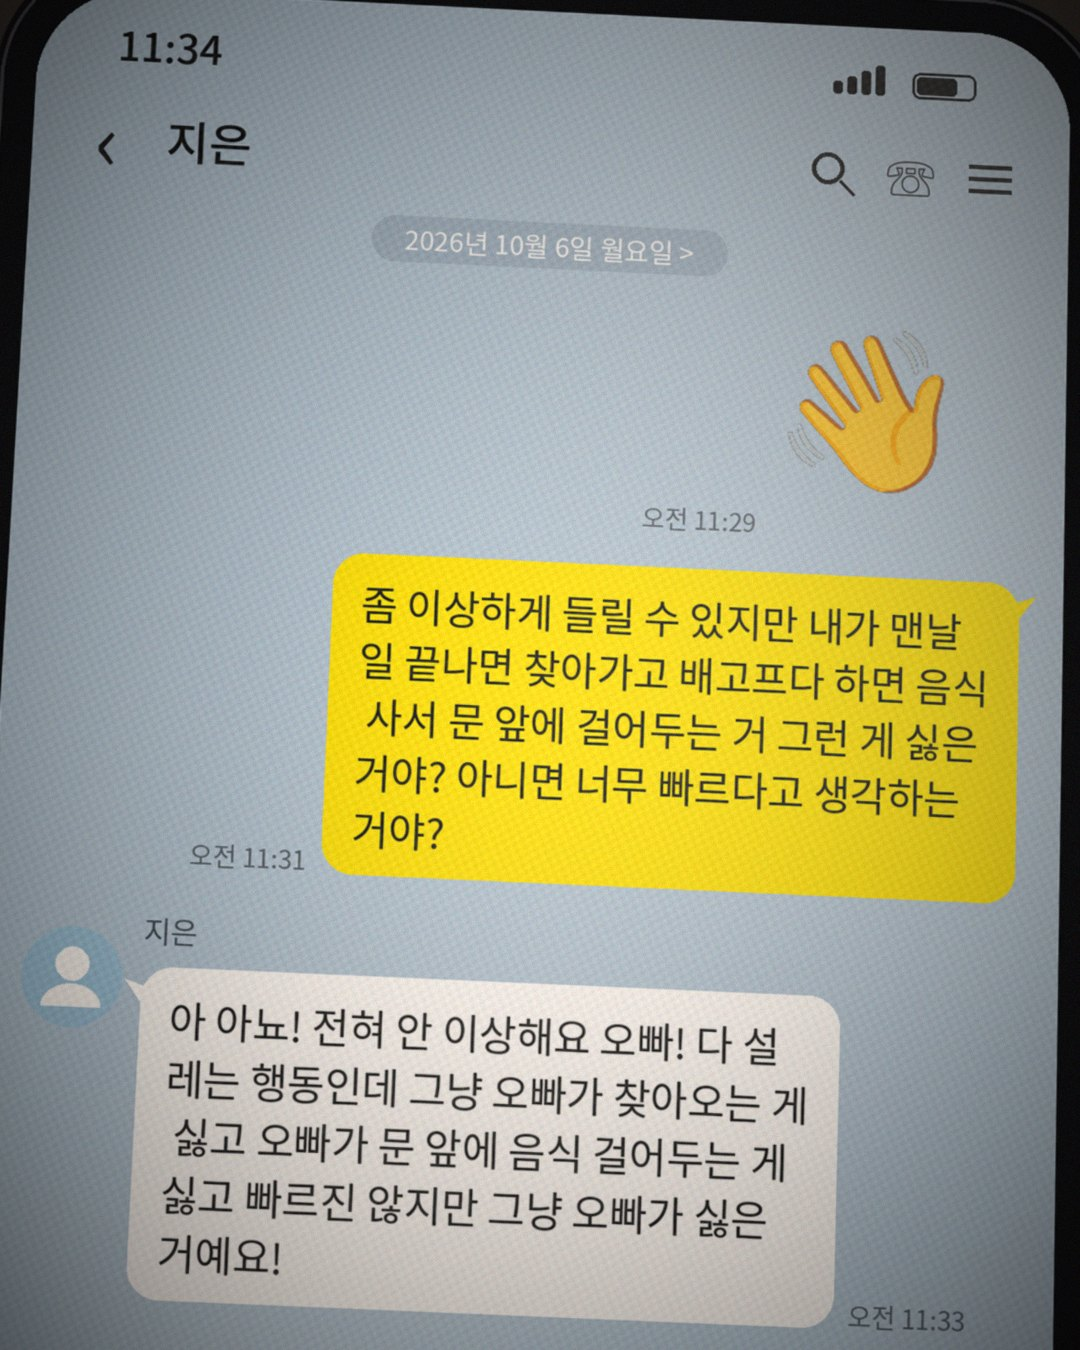
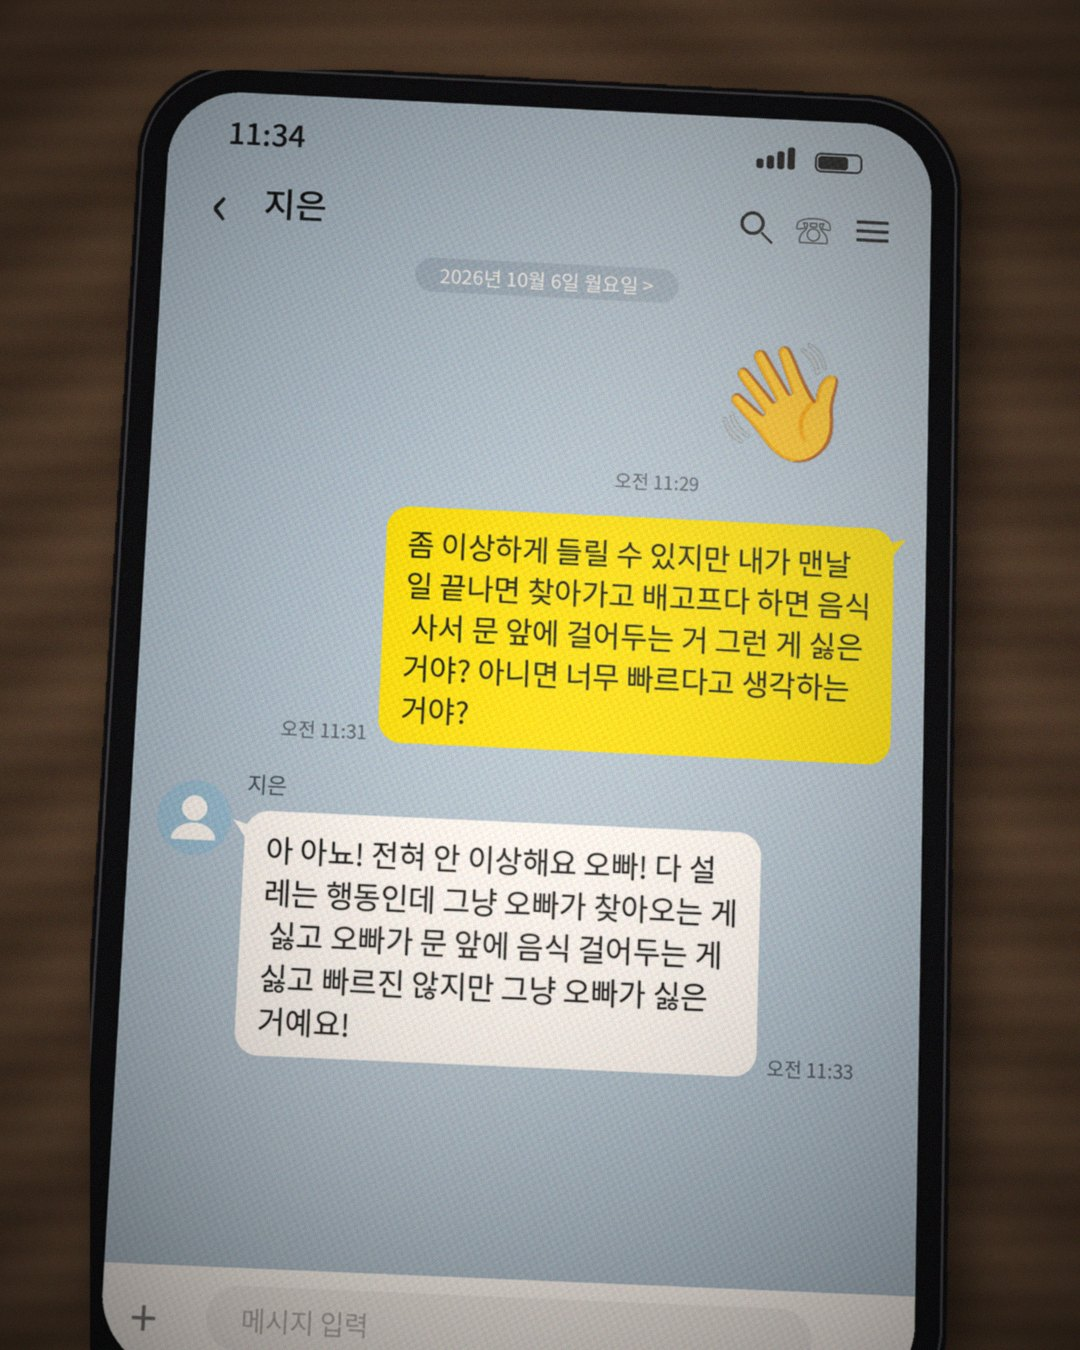
카톡 짤: 조금 떨어져서 찍은 구도(폰 전체, 나뭇결 책상)

diff --git a/jobs/2026-11-22-kakao-milddang/build.py b/jobs/2026-11-22-kakao-milddang/build.py
@@ -80,16 +80,18 @@ s2 = Image.composite(Image.new('RGBA', (SW, SH), (255, 255, 255, 255)), s2, glar
 phone.paste(s2, (B, B), m)
 # 배경(어두운 책상) + 원근·기울기
 W, H = 1080, 1350
-bg = np.zeros((H, W, 3), float); bg[:] = (58, 52, 48); bg += np.random.default_rng(1).normal(0, 6, (H, W, 3))
+bg = np.zeros((H, W, 3), float); bg[:] = (92, 70, 52)
+yy0, xx0 = np.mgrid[0:H, 0:W]; grain = np.sin(yy0 * 0.045 + np.sin(xx0 * 0.004) * 6) * 9 + np.sin(yy0 * 0.21 + xx0 * 0.002) * 4
+bg += grain[..., None] * np.array([1.0, 0.8, 0.6]); bg += np.random.default_rng(1).normal(0, 5, (H, W, 3))
 canvas = Image.fromarray(np.clip(bg, 0, 255).astype('uint8')).filter(ImageFilter.GaussianBlur(3)).convert('RGBA')
 # 보이는 부분: 머리~말풍선 아래 조금(폰 위아래는 화면 밖으로 잘림)
-top_crop = 0; bot = min(PH, endy + B + 260)
+top_crop = 0; bot = PH   # 11-22 02:19 사용자: 조금 위에서 떨어져서 찍은 느낌 → 폰 전체
 ph = phone.crop((0, top_crop, PW, bot))
 # 화면이 거의 꽉 차게 → 원근 변형(위쪽이 살짝 좁게, 왼쪽으로 살짝 기울게)
-tw = 1160; s = tw / ph.width; ph = ph.resize((tw, round(ph.height * s)), Image.LANCZOS)
+tw = 860; s = tw / ph.width; ph = ph.resize((tw, round(ph.height * s)), Image.LANCZOS)
 w0, h0 = ph.size
 src = [(0, 0), (w0, 0), (w0, h0), (0, h0)]
-dst = [(40, 0), (w0 - 10, 25), (w0 + 15, h0), (-10, h0 - 15)]
+dst = [(34, 0), (w0 - 6, 18), (w0 + 14, h0), (-8, h0 - 12)]
 def coeffs(pa, pb):
     A = []
     for (x, y), (X, Y) in zip(pa, pb):
@@ -97,7 +99,10 @@ def coeffs(pa, pb):
     A = np.array(A, float); b = np.array(pa, float).reshape(8)
     return np.linalg.solve(A, b)
 ph = ph.transform((w0 + 40, h0 + 20), Image.PERSPECTIVE, coeffs(src, dst), Image.BICUBIC).rotate(-1.6, resample=Image.BICUBIC, expand=False)
-ox = (W - ph.width) // 2; oy = -40 if ph.height > H else (H - ph.height) // 2
+ox = (W - ph.width) // 2; oy = 70
+# 폰 그림자
+sh = Image.new('RGBA', canvas.size, (0, 0, 0, 0)); sh.alpha_composite(Image.new('RGBA', ph.size, (0, 0, 0, 150)), (ox + 18, oy + 26)); shm = ph.split()[3]
+shadow = Image.new('RGBA', canvas.size, (0, 0, 0, 0)); shadow.paste(Image.new('RGBA', ph.size, (0, 0, 0, 140)), (ox + 16, oy + 24), shm); canvas.alpha_composite(shadow.filter(ImageFilter.GaussianBlur(22)))
 canvas.alpha_composite(ph, (ox, oy))
 img = canvas.convert('RGB').filter(ImageFilter.GaussianBlur(0.7))
 # 노이즈·비네팅·살짝 따뜻한 색
